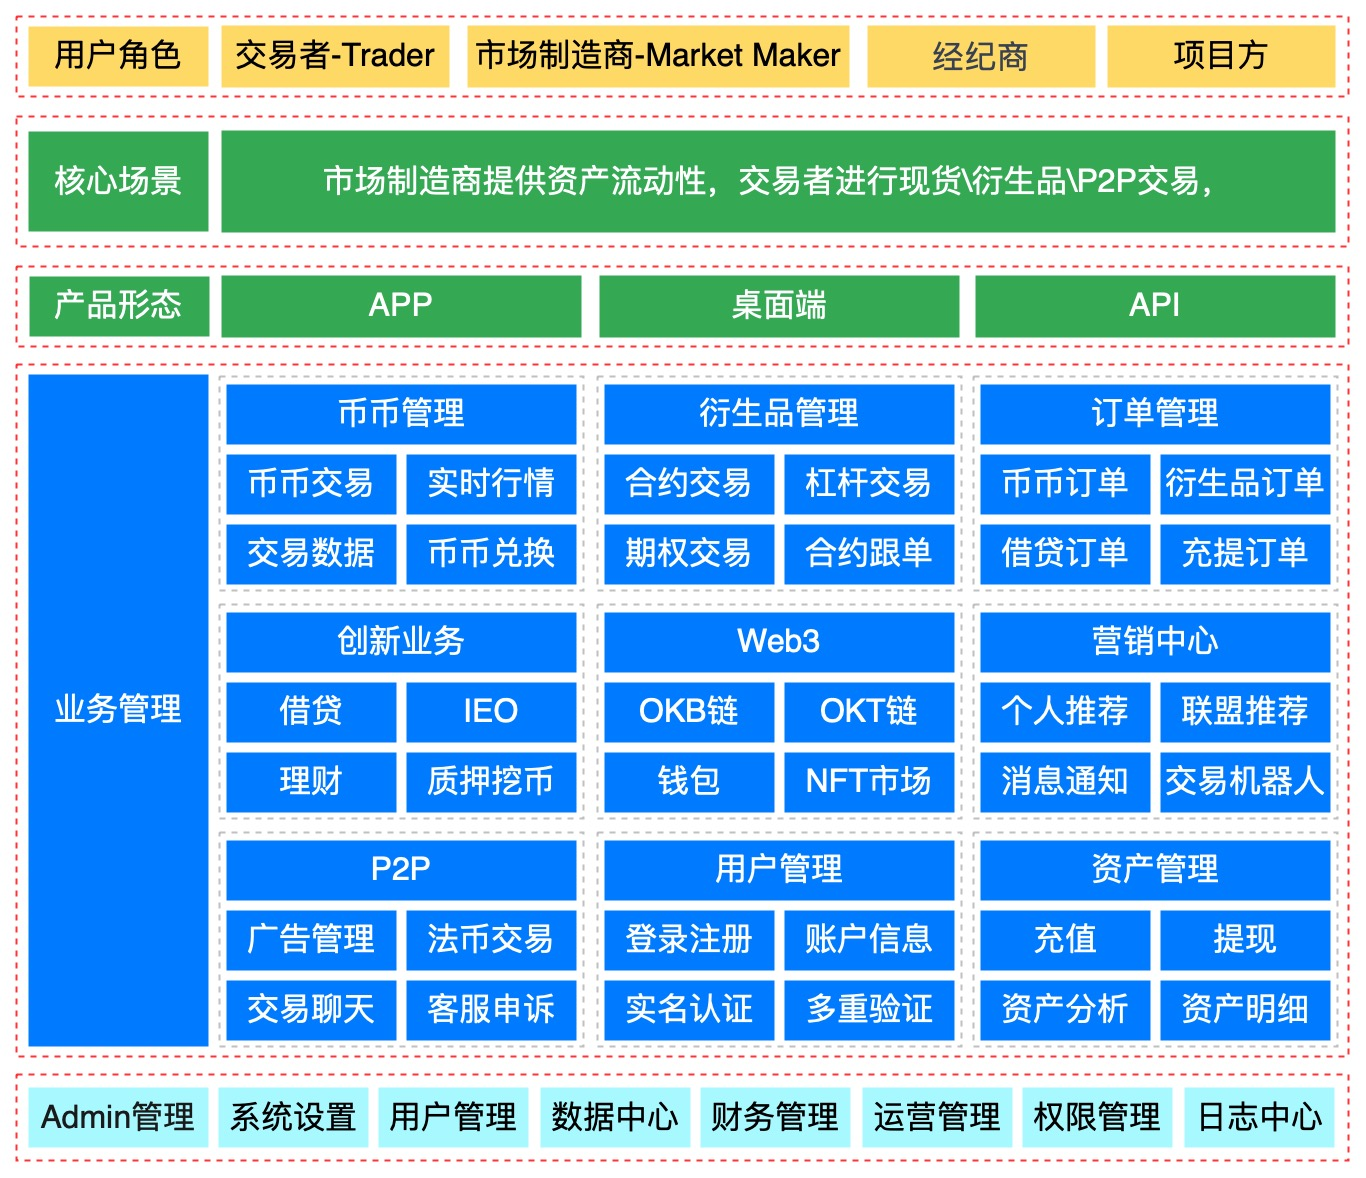
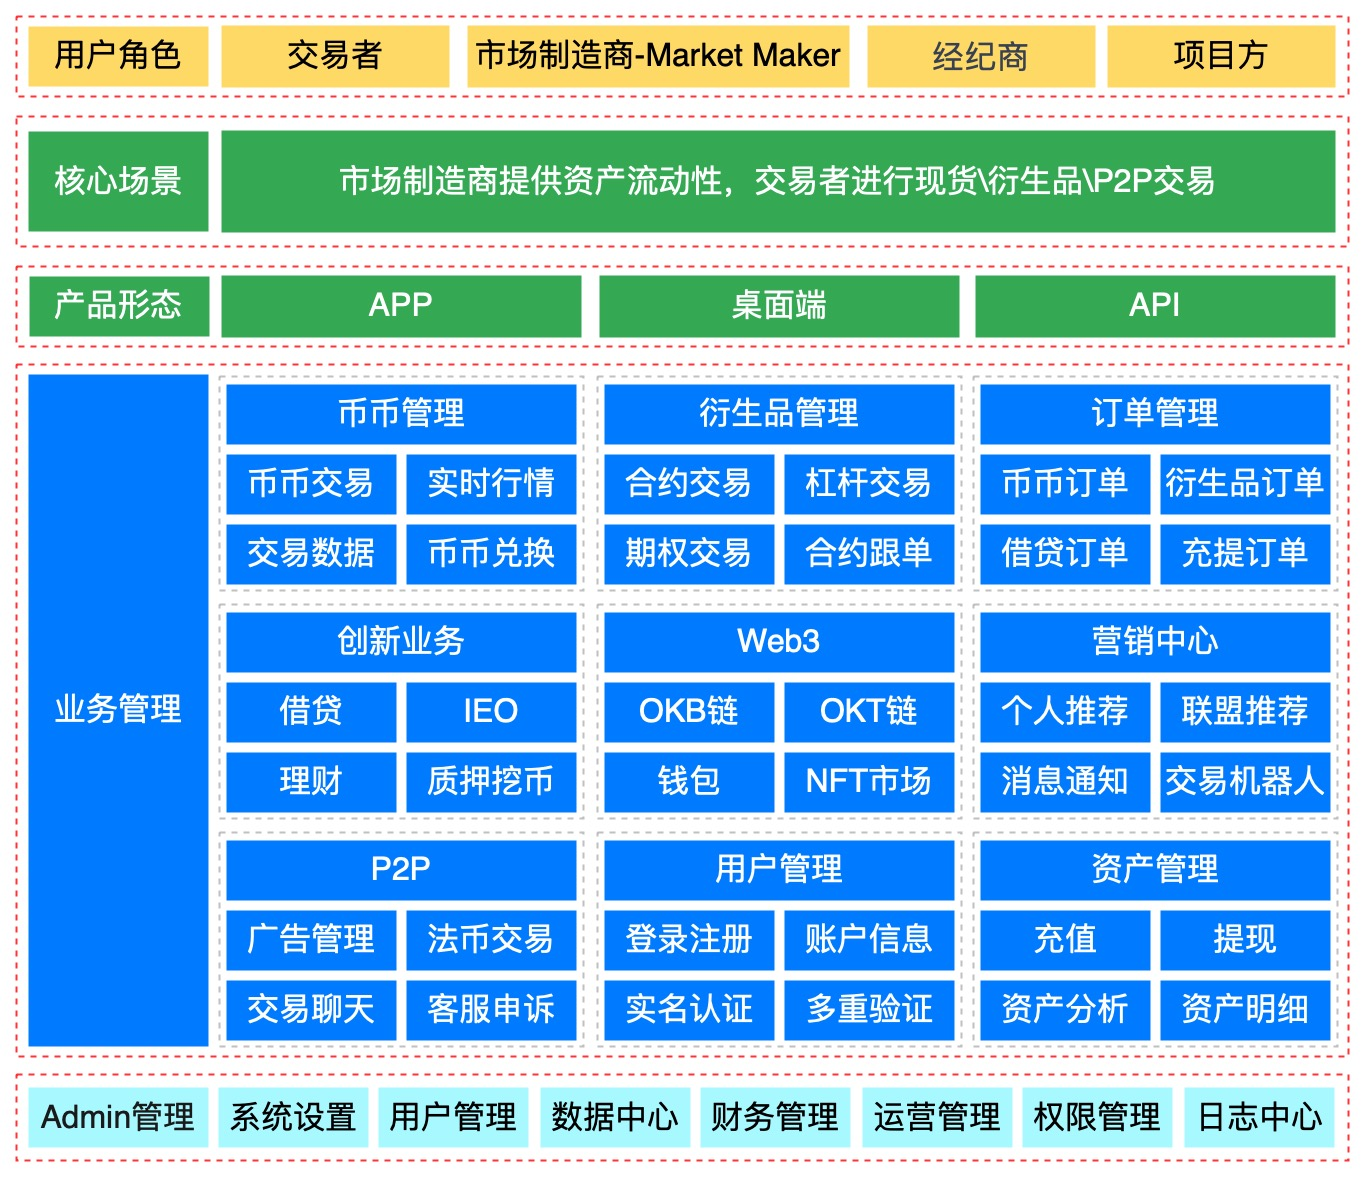
update content

Changed region(s): [[0.246, 0.1222, 0.8917, 0.1834], [0.1537, 0.0306, 0.3075, 0.0611]]

diff --git a/_posts/2023-08-16-okx-product-analysis-en.md b/_posts/2023-08-16-okx-product-analysis-en.md
@@ -27,7 +27,6 @@ An innovative cryptocurrency exchange: pioneering features, global reach from Ch
 * Market Share: Market share decreased from 18% (January 1, 2022) to 14.7% (December 31, 2022)
 * Spot Trading Pairs: Futures Trading Pairs = 831 : 206
 * Spot Trading Volume: Futures Trading Volume = 14% : 86% 
-* Spot Trading Fee Revenue (2022.12.1 - 2023.2.28): $590 million (30% of quarterly spot trading fee revenue allocated for OKB buyback and burn, resulting in the destruction of OKB tokens worth approximately $177 million from December 1, 2022, to February 28, 2023)
 
 Data Source：TokenInsight
 
@@ -41,13 +40,23 @@ Data Source：TokenInsight
 | 2014.3  | OKCoin concluded Series A round funding. | $10 million |
 | 2017.12 | OKEx closed Series B round funding.      | Undisclosed |
 
-## 3 Product Architecture       
+## 3 User Mind     
+
+OKX can be likened to the math class representative, possessing not only a solid knowledge foundation but also the ability to approach problems innovatively, offering fresh insights to their peers.
+
+User Profile of OKX:
+* Active traders: Engaged in derivatives trading, aiming to capitalize on market fluctuations.
+* Enthusiastic about novelty and trends: They are constantly monitoring the latest developments, trends, and potential investment opportunities in the cryptocurrency market. They continuously seek new knowledge and insights to maintain a competitive edge in the rapidly changing landscape.
+* Tech-savvy: Proficient in using various online platforms and trading interfaces, and may have experience with programming or algorithmic trading.
+
+
+## 4 Product Architecture       
 
 <a data-fancybox="gallery" href="{{site.baseurl}}/assets/img/post/2023-08-16/architecture-en.jpg">
 ![Product Architecture]({{site.baseurl}}/assets/img/post/2023-08-16/architecture-en.jpg)
 </a>
 
-## 4 Operational System         
+## 5 Operational System         
 
 * 2013-2016: OKCoin established, expanded within China.
 * 2017-2018: Emphasized derivatives, expanded internationally, launched OKEx, halted OKCoin operations.
@@ -121,7 +130,11 @@ Data Source：TokenInsight
     * OKX Wallet adds Gas Station feature; token market feature; integrates Ledger hardware wallet; simplifies crypto transfers between OKX Wallet and Exchange account; enables crypto purchases with credit cards.
     * Launches Cryptopedia
 
-## 5 Business Model          
+## 6 Business Model          
+
+Spot Trading Fee Revenue (2022.12.1 - 2023.2.28)
+
+$590 million (30% of quarterly spot trading fee revenue allocated for OKB buyback and burn, resulting in the destruction of OKB tokens worth approximately $177 million from December 1, 2022, to February 28, 2023)
 
 6 major profit-making businesses：
 
@@ -138,15 +151,15 @@ Data Source：TokenInsight
 6. Withdrawal Fees:
     * Crypto: determined by blockchain network congestion
 
-## 6 Distinctive Features
+## 7 Distinctive Features
 
-### 6.1 Account Evolution
+### 7.1 Account Evolution
 
 OKX pioneered the idea of a Unified Account. After a year of development, the Unified Account system entered public testing in December 2020. Over two years, it underwent thorough exploration and optimization, leading to the retirement of the Classic Account in January 2022. This marked the full adoption of the Unified Account system. This innovation garnered attention and motivated other exchanges to introduce similar Unified Account solutions. OKX's commitment to innovation has set an industry benchmark.
 
 In June 2022, Binance launched its Portfolio Margin Program, enabling traders to use multiple assets as collateral. This feature is applicable to trading in USDⓈ-M Futures, COIN-M Futures, and Cross Margin Wallets.
 
-#### 6.1.1 Classic Account System（2018）
+#### 7.1.1 Classic Account System（2018）
 
 <a data-fancybox="gallery" href="{{site.baseurl}}/assets/img/post/2023-08-16/classic-account-system-en.jpg">
 ![Classic Account System]({{site.baseurl}}/assets/img/post/2023-08-16/classic-account-system-en.jpg)
@@ -158,7 +171,7 @@ In the Classic Account System, accounts are grouped by business type to manage r
 * Futures Account / Index Account: For futures or index trading, users move cryptocurrencies from the Spot Account to the Futures or Index Account.
 * P2P Account: Acquired digital assets from fiat transactions are held in this account.
 
-#### 6.1.2 Unified Account System（2023）
+#### 7.1.2 Unified Account System（2023）
 
 <a data-fancybox="gallery" href="{{site.baseurl}}/assets/img/post/2023-08-16/unified-account-system-en.jpg">
 ![Unified Account System]({{site.baseurl}}/assets/img/post/2023-08-16/unified-account-system-en.jpg)
@@ -172,9 +185,9 @@ The funding account handles tasks like deposits, withdrawals, IEO participation 
 
 The introduction of the finance account further enhances the trading environment for users, facilitating their participation in diverse financial activities and elevating the overall platform experience.
 
-### 6.2 Goals of Account Structure Enhancement
+### 7.2 Goals of Account Structure Enhancement
 
-#### 6.2.1 Profit and Loss Offset
+#### 7.2.1 Profit and Loss Offset
 
 OKX's Unified Account System has four new account modes: Simple, Single-currency Margin, Multi-currency Margin, and Portfolio Margin. With this innovation, users can trade various digital asset derivatives in one account and share margins between different product lines.
 
@@ -190,7 +203,7 @@ Margin Calculation in Single Currency Margin Mode vs. Regular Mode (TokenInsight
 ![Margin Calculation]({{site.baseurl}}/assets/img/post/2023-08-16/margin-calculation-en.jpg)
 </a>
 
-#### 6.2.2 Enhancing User Experience
+#### 7.2.2 Enhancing User Experience
 
 In the Classic Account, spot trading involves two steps: first, buy cryptocurrencies using the Point-to-Point Account, then transfer to the Spot Account. For futures trading, funds need to be moved again to the Futures Account, making it three steps.
 
@@ -204,7 +217,7 @@ In contrast, the Unified Account streamlines this by enabling direct spot tradin
 ![okx account page]({{site.baseurl}}/assets/img/post/2023-08-16/okx2-en.png)
 </a>
 
-## 7 Summary and Insights 
+## 8 Summary and Insights 
 
 1. OKX was among the earliest trading platforms to introduce Bitcoin futures right from the start, establishing itself as a pioneer in the realm of futures trading. Through derivative trading, it rapidly expanded its business. In a competitive landscape with Binance, Huobi, and OKX as the major players, OKX stood out with its robust futures liquidity.
 2. OKX's innovative approach is also evident in its unique Unified Account. This initiative not only enhances efficient fund utilization and risk management for futures trading but also simplifies user participation, thereby enhancing the overall user experience. This innovation provides users with a more streamlined method of operation and sets a new industry benchmark.

diff --git a/_posts/2023-08-04-binance-product-analysis-en.md b/_posts/2023-08-04-binance-product-analysis-en.md
@@ -30,7 +30,6 @@ Binance, the leading centralized exchange with the widest business coverage, hol
 * Spot Trading Volume (Q1 2023): 15.5 trillion
 * Futures Trading Volume (Q1 2023): 44 trillion
 * Spot Trading Volume: Futures Trading Volume  = 26% : 74%
-* Revenue (Q1 2023): 3.35 billion (20% of quarterly revenue used for BNB buyback and burn, 23rd BNB burn amounted to approximately $670 million)
 
 Data Source: TokenInsight
 
@@ -44,13 +43,23 @@ Data Source: TokenInsight
 | 2018.10.23 | Strategic Investment  | Undisclosed  |
 | 2022.4.7   | Binance.US Seed Round | $200 million |
 
-## 3 Product Architecture       
+## 3 User Mind     
+
+Binance resembles the class leader in school—proficient in self-promotion and presentation, well-liked by classmates, and garnering support from over half of the class. Simultaneously, it excels academically by consistently maintaining the top position, displaying expertise in nearly all subjects, and showcasing versatility.
+
+User Profile of Binance:
+
+* Conservative in nature, they tend to adhere to tradition and embrace a cautious approach towards risk. Upholding personal reputation is a priority.
+* Emphasis on security. They are extremely vigilant about the potential risks posed by exchanges, especially the threat of exit scams. They opt for reputable and secure platforms to ensure comprehensive fund protection.
+* Prioritizing convenience, they seek an all-in-one platform to meet diverse needs. Binance, as a comprehensive exchange, offers trading, asset management, and more, catering to their convenience-oriented mindset.
+
+## 4 Product Architecture       
 
 <a data-fancybox="gallery" href="{{site.baseurl}}/assets/img/post/2023-08-04/architecture-en.jpg">
 ![Product Architecture]({{site.baseurl}}/assets/img/post/2023-08-04/architecture-en.jpg)
 </a>
 
-## 4 Binance Evolution       
+## 5 Binance Evolution       
 
 * 2017: Establishment
   * Launched BNB and introduced Binance exchange, achieving the position of the world's largest cryptocurrency trading platform by trading volume in December.
@@ -79,7 +88,9 @@ Data Source: TokenInsight
 * 2022: Compliance and Transparency (BTC's Price Halving)
   * By working collaboratively with regulators worldwide, Binance has secured registrations and licenses in 14 jurisdictions as of the end of 2022.
 
-## 5 Business Model       
+## 6 Business Model       
+
+Revenue (Q1 2023): 3.35 billion (20% of quarterly revenue used for BNB buyback and burn, 23rd BNB burn amounted to approximately $670 million)
 
 Seven major profit-making businesses：
 
@@ -103,29 +114,29 @@ Seven major profit-making businesses：
     2. Crypto: determined by blockchain network congestion
 
 
-## 6 Core Business Processes   
+## 7 Core Business Processes   
 
-### 6.1 Product Interfaces
+### 7.1 Product Interfaces
 
 Six client interfaces: iOS, Android, MacOS, Windows, Linux, and API. 
 
 Desktop usage accounts for over 50% of total users, while mobile access represents 21%.
 
-### 6.2 Core Business - Spot Trading
+### 7.2 Core Business - Spot Trading
 
 <a data-fancybox="gallery" href="{{site.baseurl}}/assets/img/post/2023-08-04/business-spots-trading-en.jpg">
 ![Core Business * Spot Trading]({{site.baseurl}}/assets/img/post/2023-08-04/business-spots-trading-en.jpg)
 </a>
 
-## 7 Distinctive Features
+## 8 Distinctive Features
 Binance Coin (BNB) stands out among other platform coins like OKB (OKX), HT (Huobi), and GT (Gate) due to its extensive influence, higher prices, and relatively complete ecosystem. In this analysis, we will explore BNB from two perspectives: its technology and use cases.
 
-### 7.1 Technology
+### 8.1 Technology
 Initially launched as an ERC-20 token on Ethereum, Binance Coin (BNB) conducted its initial coin offering (ICO) in 2017.
 
 However, in April 2019, Binance launched its own blockchain called Binance Chain and conducted a token swap from the ERC-20 BNB tokens to the native BNB tokens on the Binance Chain. The migration from the Ethereum network to Binance Chain was done to provide more scalability, faster transactions, and greater control over the token's features and functionality.
 
-### 7.2 Use Cases
+### 8.2 Use Cases
 
 1. Trading Fee Discounts: Using BNB on the Binance platform offers trading fee discounts (25% off for spot trading with BNB as fees, and 10% off for BNB-based fees on USDT-M Futures). This reduces users' trading costs.
 2. Participating in Liquid Swap: By providing liquidity for trading pairs, users can engage in liquidity mining to earn rewards. For instance, providing liquidity for BNB/BTC pair earns BNB rewards with an annualized yield of 0.6%.
@@ -135,7 +146,7 @@ However, in April 2019, Binance launched its own blockchain called Binance Chain
 6. Binance Card Payments: Users can deposit BNB into the Binance Card and use it to purchase goods and services, such as booking hotels and flights on Travala.
 7. Payment Applications: Apart from Binance Card, BNB is accepted as a payment method by some merchants.
 
-## 8 Summary and Insights
+## 9 Summary and Insights
 
 1. The evolution of Binance from a mere exchange to the expansive Binance Group signifies its wide-ranging influence in the midstream and downstream sectors of the blockchain industry. Beyond exchange operations, the group engages in charity, investments, academia, research, podcast, labs, staking, liquid swap, launchpool, launchpad, and mining pools. This diverse array of services has transformed Binance into a comprehensive blockchain service provider.
 2. Binance boasts multiple global trading platforms, including the flagship Binance platform, as well as Binance Jersey, Binance Singapore, Binance US, Binance Australia, and Binance Korea. This extensive presence caters to diverse market needs across different regions.

diff --git a/_posts/2023-08-04-binance-product-analysis.md b/_posts/2023-08-04-binance-product-analysis.md
@@ -24,13 +24,12 @@ date: 2023-08-04
 ### 2.2 产品基础数据
 
 * 注册用户数：1.4亿
-* 月活（2023 Q1）：69.67 M
+* 月活（2023 Q1）：6967万
 * 市场份额：市场份额从 48.9%（2022年1月1日）上升到 64.1%（2022年12月31日） ，市场占有率第一
 * 现货交易对：合约交易对 =  1380 : 284
 * 现货交易量（2023 Q1）：1.55万亿
 * 合约交易量（2023 Q1）：4.4万亿
 * 现货交易量：合约交易量 = 26% : 74%
-* 收入（2023 Q1）：33.5 亿（每季度拿出20%的收入回购BNB并销毁，第23次BNB销毁折合价值约 $6.7亿）
 
 数据来源：TokenInsight
 
@@ -44,13 +43,22 @@ date: 2023-08-04
 | 2018.10.23 | 战略投资          | 未披露     |
 | 2022.4.7   | Binance.US 种子轮 | 2亿美元    |
 
-## 3 产品架构       
+## 3 用户心理     
+币安就如同学校里的班长，善于自我推广和展示，备受同学喜欢，赢得了班级半数以上的支持。同时，也是学霸，常年保持年级第一，几乎所有科目都驾轻就熟，文武双全。
+
+币安的用户画像：
+
+* 性格保守。他们更倾向于坚守传统、稳健的方式，对于风险持谨慎态度。注重维护个人声誉。
+* 重视资金安全。他们十分警惕交易所可能带来的风险，尤其是跑路风险。他们会选择声誉良好、安全性高的平台，确保资金得到充分保障。
+* 注重便捷性。期望一个平台满足各种需求。币安作为综合性的交易所，提供了交易、资产管理等多功能集中的平台，满足他们的便捷心理。
+
+## 4 产品架构       
 
 <a data-fancybox="gallery" href="{{site.baseurl}}/assets/img/post/2023-08-04/architecture.jpg">
 ![Product Architecture]({{site.baseurl}}/assets/img/post/2023-08-04/architecture.jpg)
 </a>
 
-## 4 币安成长史        
+## 5 币安成长史        
 
 * 2017：成立。
   * 发行平台币BNB。上线币安交易所（同年12月币安成为了全球交易量最大的加密资产交易平台）
@@ -79,7 +87,9 @@ date: 2023-08-04
 * 2022：合规性与透明度（BTC币价腰斩）
   * 币安与世界各地的监管机构合作，截至2022年底，已经在14个司法管辖区获得注册和许可。
 
-## 5 商业模式        
+## 6 商业模式        
+
+2023第一季度收入：33.5 亿（每季度拿出20%的收入回购BNB并销毁，第23次BNB销毁折合价值约 $6.7亿）
 
 七大盈利业务：
 
@@ -102,31 +112,31 @@ date: 2023-08-04
     1. 法币：根据渠道，费率 0-2%
     2. 加密货币：由区块链网络拥堵情况决定
 
-## 6 核心业务流程      
+## 7 核心业务流程      
 
-### 6.1 产品端口
+### 7.1 产品端口
 
 6个客户端：iOS、Android、MacOS、Windows、Linux、API
 
 桌面端的用户使用量超过50%；移动端访问为21%
 
-### 6.2 核心业务之现货交易
+### 7.2 核心业务之现货交易
 
 <a data-fancybox="gallery" href="{{site.baseurl}}/assets/img/post/2023-08-04/business-spots-trading.jpg">
 ![Core Business * Spot Trading]({{site.baseurl}}/assets/img/post/2023-08-04/business-spots-trading.jpg)
 </a>
 
-## 7 特色功能
+## 8 特色功能
 
 Binance Coin（BNB），比起其他平台的平台币，例如OKB（OKX）、HT（Huobi）、GT（Gate），BNB的影响力大，价格最高，生态相对完整，接下来从BNB的技术和应用场景两个维度进行分析。
 
-### 7.1 技术：
+### 8.1 技术：
 
 最初，Binance Coin（BNB）作为一个ERC-20代币在以太坊区块链上发布。在2017年进行其首次代币发行（ICO）。
 
 然而，在2019年4月，Binance推出了自己的区块链，Binance Chain，并进行了从ERC-20 BNB代币到Binance Chain的BNB代币的代币切换。从以太坊网络迁移到Binance Chain是为了提供更高的可扩展性、更快的交易速度以及更大的控制权，以便更好地发挥代币的功能和特性。
 
-### 7.2 应用场景：
+### 8.2 应用场景：
 
 1. 交易费用折扣：在 Binance 平台上使用 BNB 可以享受交易费用的折扣（现货交易用BNB作为手续费的话是75折；U本位合约交易用BNB作为手续费的话是9折）。降低了用户的交易成本。
 2. 参与 Liquid swap：通过添加交易对的流动性，进行流动性挖矿来获取奖励。例如提供BNB/BTC的流动性，奖励为BNB，年化0.6%
@@ -136,7 +146,7 @@ Binance Coin（BNB），比起其他平台的平台币，例如OKB（OKX）、HT
 6. Binance Card 支付：用户将 BNB 存入 Binance Card，以购买商品和服务。例如在travala订酒店和机票。
 7. 支付应用：除了 Binance Card 外，BNB 还被一些商家接受为支付方式。
 
-## 8 总结与思考
+## 9 总结与思考
 
 1. 曾经的币安交易所，已经成长为币安集团，覆盖了区块链行业的中游&下游，除了交易所的业务，还有慈善、投资、学院、研究院、播客、孵化器、Staking、流动性挖矿、Launchpad、矿池。这种多元化的服务使币安成为一个综合性的区块链服务提供商。
 2. 在全球范围内拥有多个交易平台，除了全球站币安，还包括泽西站、新加坡站、美国站、澳大利亚站和韩国站。覆盖了不同地区的市场需求。
